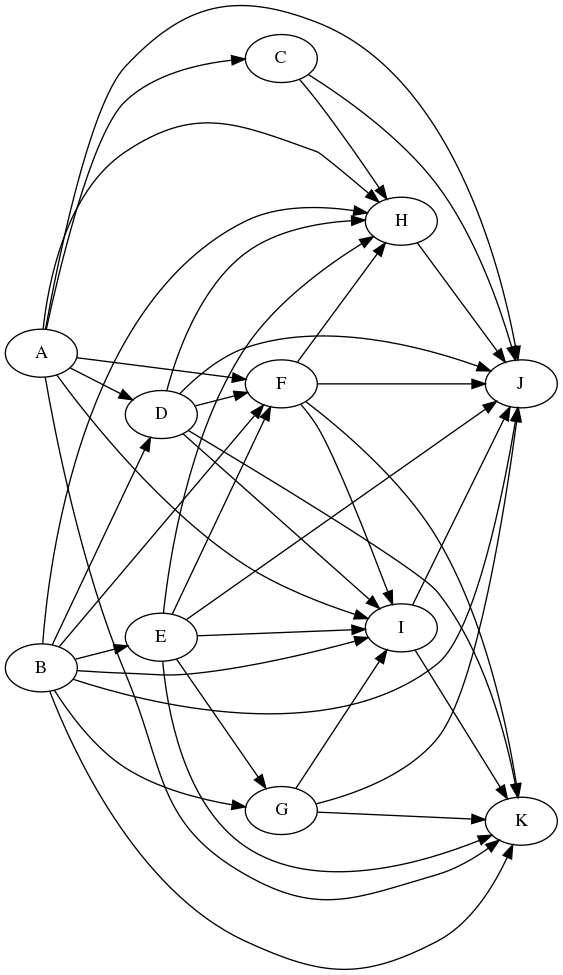
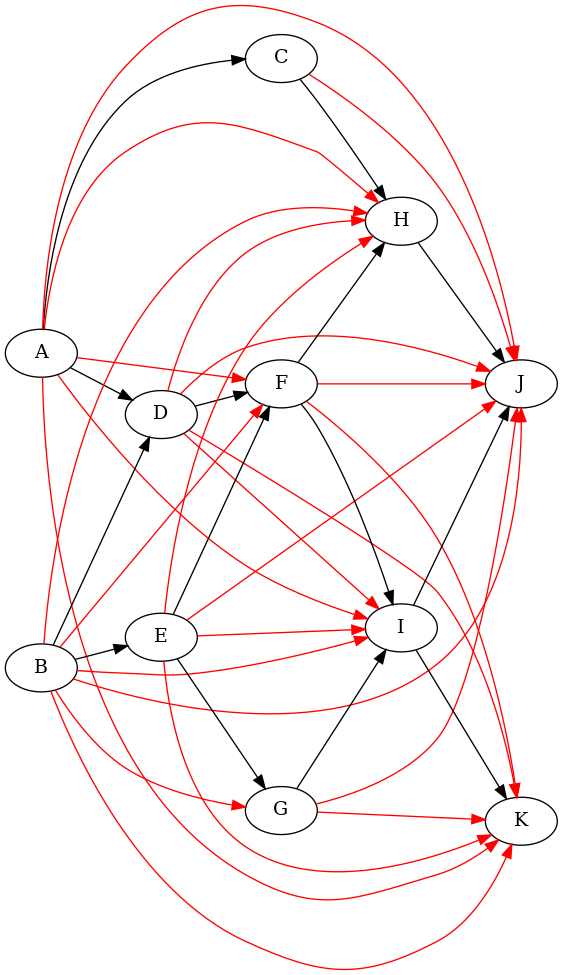
amélioration du code (suggestions de X. Ansiaux):  * ajouts des puissances de la matrice d'adjacence GrapheSimple.Matrices  * versions latex GrapheSimple.Matrices_latex  * tableau latex des prédecesseurs GrapheSimple.tab_latex_pred  * tableau latex des successeurs GrapheSimple.tab_latex_succ fonctio

diff --git a/grapheMPM/__init__.py b/grapheMPM/__init__.py
@@ -1,24 +1,79 @@
 from numpy import matrix, prod, float_, round, floor, uint8
 from graphviz import Digraph
 from lxml import etree
-##***modif xavier***
-from sympy import latex,Matrix #j'utilise sympy parce qu'il comporte l'export latex pour le matrices, mais ta fonction mat2tex est très bien aussi. 
 from pandas import DataFrame
-##***Fin modif xavier***
+
 
 """.. py:module:: graphMPM
     Module de manipulation de graphes pour ordonnancement
 
+.. py:function:: tab_latex
+    Générer la version latex d'un tableau 2d.
+
+.. py:function:: mat2tex
+    Générer la version latex pmatrix d'une matrice.
+
 .. py:class:: noeud
     objet de description d'un nœud MPM sous forme d'un
     dictionnaire, rendu par un tableau html dans le graphe.
+
 .. py:class:: GrapheSimple
-    un graphe orienté simple, avec matrice
-    d'adjacence et de fermeture transitives (export tex possible)
+    un graphe orienté simple, avec matrice d'adjacence, ses puissances et la
+    matrice fermeture transitives ainsi que leur version latex
+
 .. py:class:: GrapheMPM
     fils de GrapheSimple, avec méthodes de remplissage
     des dates au plus tôt et au plus tard.
 """
+
+def tab_latex(t:dict, p:bool)->str:
+    """vers la version latex du tableau des prédécesseurs/successeurs.
+
+    il est intéressant de disposer des versions latex des tableaux des
+    successeurs et des prédécesseurs.
+    il arrive que les valeurs soient sous forme de liste dans les
+    prédécesseurs par exemple:{'1': ['1'], '2': ['1', '2', '3'], '3': ['2',
+    '3'], '4': ['1', '4', '5'], '5': ['4', '5']}. on les remet sous forme
+    de chaine.
+
+    :param t: dictionnaire à traiter
+    :param p: booléen d'activation si c'est le tableau des prédecesseurs
+    """
+    for i in t.keys():
+        if isinstance(t[i], list):
+            ch = ''.join(t[i])
+            t.update({i:ch})
+    t = sorted(t.items(), key=lambda t: t[0])
+    T = [ list(x) for x in t ]
+    columns_labels = ["Sommet",
+                      ("Prédécesseur(s)" if p else "Successeur(s)")]
+    df = DataFrame(T, columns=columns_labels)
+    return df.to_latex(index=False, column_format='|'+2*'c|')
+
+
+def mat2tex(M):
+    """construire la version tex d'une matrice, avec jolis retours
+    à la ligne pour un pretty print.
+
+    src: stackoverflow.com - numpy-2d-and-1d-array-to-latex-bmatrix
+    :returns: LaTeX pmatrix as a string
+    :param M: matrice
+    :type M: numpy matrix
+
+    Exemple::
+
+    >>> mat2tex(G.mat_adj)
+    >>> mat2tex(G.mat_ferm_transitive)
+
+    """
+    if len(M.shape) > 2:
+        raise ValueError('pmatrix can at most display two dimensions')
+    lines = str(M).replace('[', '').replace(']', '').splitlines()
+    rv = [r'\begin{pmatrix}']
+    rv += ['  ' + ' & '.join(l.split()) + r'\\' for l in lines]
+    rv += [r'\end{pmatrix}']
+    return '\n'.join(rv)
+
 
 class noeud():
     def __init__(self, titre, presentation=1, marges=True, **kwargs):
@@ -92,15 +147,33 @@ class GrapheSimple():
 
     :successeurs: dict des successeurs
     :predecesseurs: dict des prédecesseurs
+    :tab_latex_pred: str du tableau latex des prédecesseurs
+    :tab_latex_succ: str du tableau latex des successeurs
     :mat_adj: matrix matrice d'adjacence
     :mat_ferm_transitive: matrix matrice de fermeture transitive
 
     Exemple::
 
-    >>>p = {"A": "", "B": "", "C": "A", "D": "AB", "E":"B",
+    >>> p = {"A": "", "B": "", "C": "A", "D": "AB", "E":"B",
        "F":"DE", "G": "E", "H":"CF", "I":"FG", "J": "HI"}
-    >>>GS = GrapheSimple(pred=p)
-    >>>GS.mat2tex(G.mat_ferm_transitive)
+    >>> GS = GrapheSimple(pred=p)
+    >>> print(mat2tex(GS.mat_ferm_transitive))
+    \begin{pmatrix}
+      0 & 0 & 1 & 1 & 0 & 1 & 0 & 1 & 1 & 1\\
+      0 & 0 & 0 & 1 & 1 & 1 & 1 & 1 & 1 & 1\\
+      0 & 0 & 0 & 0 & 0 & 0 & 0 & 1 & 0 & 1\\
+      0 & 0 & 0 & 0 & 0 & 1 & 0 & 1 & 1 & 1\\
+      0 & 0 & 0 & 0 & 0 & 1 & 1 & 1 & 1 & 1\\
+      0 & 0 & 0 & 0 & 0 & 0 & 0 & 1 & 1 & 1\\
+      0 & 0 & 0 & 0 & 0 & 0 & 0 & 0 & 1 & 1\\
+      0 & 0 & 0 & 0 & 0 & 0 & 0 & 0 & 0 & 1\\
+      0 & 0 & 0 & 0 & 0 & 0 & 0 & 0 & 0 & 1\\
+      0 & 0 & 0 & 0 & 0 & 0 & 0 & 0 & 0 & 0\\
+    \end{pmatrix}
+    >>> GS.Matrices_latex[O] # équivalent à ligne précédente
+    >>> GS.Matrices_latex
+    >>> print(GS.tab_latex_pred)
+
     """
 
     def __init__(self, succ=None, pred=None, make_node=str):
@@ -146,33 +219,6 @@ class GrapheSimple():
                       if self.mat_adj[i-1, j] != 0]
                 S[d[i]] = pi
             self.successeurs = S
-            
-        ##***modif xavier***
-        ## il est intéressant de disposer des versions latex des tableaux des successeurs et des prédécesseurs
-        def tab_latex(t:dict,p:bool)->str: #cette fonction sort la version latex du tableau des prédécesseurs ou des successeurs . 
-            #il arrive que les valeurs soient sous forme de liste dans les prédécesseurs par exemple:{'1': ['1'], '2': ['1', '2', '3'], '3': ['2', '3'], '4': ['1', '4', '5'], '5': ['4', '5']}. on les remet sous forme de chaine
-            for i in t.keys():
-                ch = ''
-                for j in t[i]:
-                    ch += j
-                t.update({i:ch})
-            t = sorted(t.items(), key=lambda t: t[0])#on réordonne éventuellement 
-            T=[]
-            if p:
-                columns_labels=["Sommet","Prédécesseur(s)"]
-            else:
-                columns_labels=["Sommet","Successeur(s)"]
-            for x in t:
-                T.append([x[0],x[1]])
-            df = DataFrame(T, columns=columns_labels)
-            return df.to_latex(index=False,column_format='|'+2*'c|')
-        
-        ## Pour les prédécesseurs et les successeurs:
-        self.tab_latex_pred = tab_latex(self.predecesseurs,True)
-        self.tab_latex_succ = tab_latex(self.successeurs,False)
-        
-        ## Fin modif xavier***
-
 
         # construction mat. de ferm. transitive
         Mtmp = self.mat_adj.copy()
@@ -180,40 +226,17 @@ class GrapheSimple():
         for i in range(len(self.sommets)-1): # on a déjà la puissance 1
             Mtmp = Mtmp*self.mat_adj # mutip normale dans numpy
             Puissances.append(Mtmp)
-
         # somme puissances, comp bool, conversion en int la plus simple
         self.mat_ferm_transitive = (sum(Puissances) > 0).view(dtype=uint8)
-        
-        ##***modif xavier***
-        ##***ajout de deux méthodes: Matrices pour récupérer toutes les matrices au format numpy et Matrices_latex pour les avoir au format latex.Le premier élément contient la matrice de fermeture transitive.***
-        Puissances.insert(0,self.mat_ferm_transitive)
+        # Xavier: insertion de la mat de ferm. transit au début
+        Puissances.insert(0, self.mat_ferm_transitive)
         self.Matrices = Puissances
-        Puissances_latex =[]
-        for M in Puissances:
-            Puissances_latex.append(latex(Matrix(M),mat_delim='('))
-        self.Matrices_latex = Puissances_latex
-        ##***Fin modif xavier***
-    def mat2tex(self, M):
-        """construire la version tex de la matrice d'adjacence
-
-        src: stackoverflow.com - numpy-2d-and-1d-array-to-latex-bmatrix
-        :returns: LaTeX pmatrix as a string
-        :param M: matrice
-        :type M: numpy matrix
-
-        Exemple::
-
-        >>>G.mat2tex(G.mat_adj)
-        >>>G.mat2tex(G.mat_ferm_transitive)
-        """
-        if len(M.shape) > 2:
-            raise ValueError('pmatrix can at most display two dimensions')
-        lines = str(M).replace('[', '').replace(']', '').splitlines()
-        rv = [r'\begin{pmatrix}']
-        rv += ['  ' + ' & '.join(l.split()) + r'\\' for l in lines]
-        rv += [r'\end{pmatrix}']
-        return '\n'.join(rv)
-
+        #Puissances_latex =[ latex(Matrix(M),mat_delim='(') for M in Puissances ]
+        self.Matrices_latex =[ mat2tex(M) for M in Puissances ]
+        ## tableaux latex pour les prédécesseurs et les successeurs:
+        self.tab_latex_pred = tab_latex(self.predecesseurs, True)
+        self.tab_latex_succ = tab_latex(self.successeurs, False)
+    
     def makeGraphviz(self, fermeture=False):
         """générer l'objet graphviz
 
@@ -230,22 +253,15 @@ class GrapheSimple():
         for k in self.successeurs.keys():
             dot.node(k)
 
-        # for k,L in self.successeurs.items():
-        #     for i in list(L):
-        #         dot.edge(k, i)
-        choix = {True: self.mat_ferm_transitive, False: self.mat_adj} 
+        choix = {True: self.mat_ferm_transitive, False: self.mat_adj}
         N = len(self.successeurs) #nb de sommets
         for i in range(N):
             for j in range(N):
                 if choix[fermeture][i, j]:
-                    ##***modif xavier***
-                    if choix[not fermeture][i,j]:
-                        couleur = 'black'
-                    else:
-                        couleur = 'red'
+                    # à méditer: arc noir si on n'est pas dans la fermeture tr.
+                    couleur = ('black' if choix[not fermeture][i,j] else 'red')
                     dot.edge(self.num_sommets[i+1],
-                         self.num_sommets[j+1],color = couleur)
-                    ##***Fin modif xavier***
+                         self.num_sommets[j+1], color=couleur)
         self.gv = dot
 
 
@@ -259,24 +275,24 @@ class GrapheMPM(GrapheSimple):
 
     Exemple::
 
-    >>>p = {"A": "", "B": "", "C": "A", "D": "AB", "E":"B",
+    >>> p = {"A": "", "B": "", "C": "A", "D": "AB", "E":"B",
        "F":"DE", "G": "E", "H":"CF", "I":"FG", "J": "HI"}
-    >>>w = {"A": 7, "B": 3, "C": 4, "D": 2, "E": 8,
+    >>> w = {"A": 7, "B": 3, "C": 4, "D": 2, "E": 8,
        "F": 6, "G": 5, "H": 7, "I": 5, "J": 3}
-    >>>G = GrapheMPM(pred=p, pond=w)
-    >>>G.earliestdate()
-    >>>G.makeGraphviz()
-    >>>G.gv.render("ex-ed")
-    >>>G.latestdate()
-    >>>G.makeGraphviz()
-    >>>G.gv.render("ex-full")
-    >>>G.gv.format("svg")
-    >>>G.gv.render("ex-full")
+    >>> G = GrapheMPM(pred=p, pond=w)
+    >>> G.earliestdate()
+    >>> G.makeGraphviz()
+    >>> G.gv.render("ex-ed")
+    >>> G.latestdate()
+    >>> G.makeGraphviz()
+    >>> G.gv.render("ex-full")
+    >>> G.gv.format("svg")
+    >>> G.gv.render("ex-full")
     """
 
     def __init__(self, succ=None, pred=None, pond=None, presentation=1,
                  titre_debut="début", titre_fin="fin", show_level=False,
-                 marges=True):
+                 marges=False):
         """instanciation d'un graphe MPM
 
         2 possibilités d'initialisation avec l'un des dictionnaires
@@ -287,10 +303,12 @@ class GrapheMPM(GrapheSimple):
         :param presentation: in [1,2] choisir 1: ml sur mt, 2: ml -mt côte
              à côte
         :type presentation: int
-        :param marges: afficher les cases des marges ou pas
+        :param marges: afficher les cases des marges ou pas (désactivé par
+        défaut)
         :type marges: bool
         :param show_level: afficher les niveaux au dessus de chaque cluster
         :type show_level: bool
+
         """
         # calcul du nombre de chiffres max après la virgule pour arrondir
         # ensuite
@@ -378,7 +396,7 @@ class GrapheMPM(GrapheSimple):
             M = L
             L = [(i+1) for i in range(len(A)) if self._col_is_null(A, i)]
             # calcul des nv sommets sans pred
-            delta = set(L).difference(set(M)) 
+            delta = set(L).difference(set(M))
             for e in delta: # mise à jour niveau c
                 D[e] = c
         D1 = [(self.num_sommets[k], v) for k, v in D.items()]
@@ -396,11 +414,11 @@ class GrapheMPM(GrapheSimple):
         return float_(s) if "." in s else int(s)
 
     def _pretty(self, n):
-        """convertir un nombre n en string selon qu'il soit int ou float_
- en tenant compte de la précision calculée dans self.prec dans __init__
+        """convertir un nombre n en string selon qu'il soit int ou float_ en 
+        tenant compte de la précision calculée dans self.prec dans __init__
         """
         # cas d'un int ou pas
-        return (str(n) if n == floor(n) else str(round(n, self.prec)))
+        return str(n) if n == floor(n) else str(round(n, self.prec))
 
     def earliestdate(self):
         """màj des données de ed des nœuds

diff --git a/setup.py b/setup.py
@@ -59,7 +59,7 @@ setup(
     # project is installed. For an analysis of "install_requires" vs pip's
     # requirements files see:
     # https://packaging.python.org/en/latest/requirements.html
-    install_requires=['graphviz', 'lxml', 'numpy'],
+    install_requires=['graphviz', 'lxml', 'numpy', 'pandas'],
 
     # List additional groups of dependencies here (e.g. development dependencies).
     # You can install these using the following syntax, for example:
